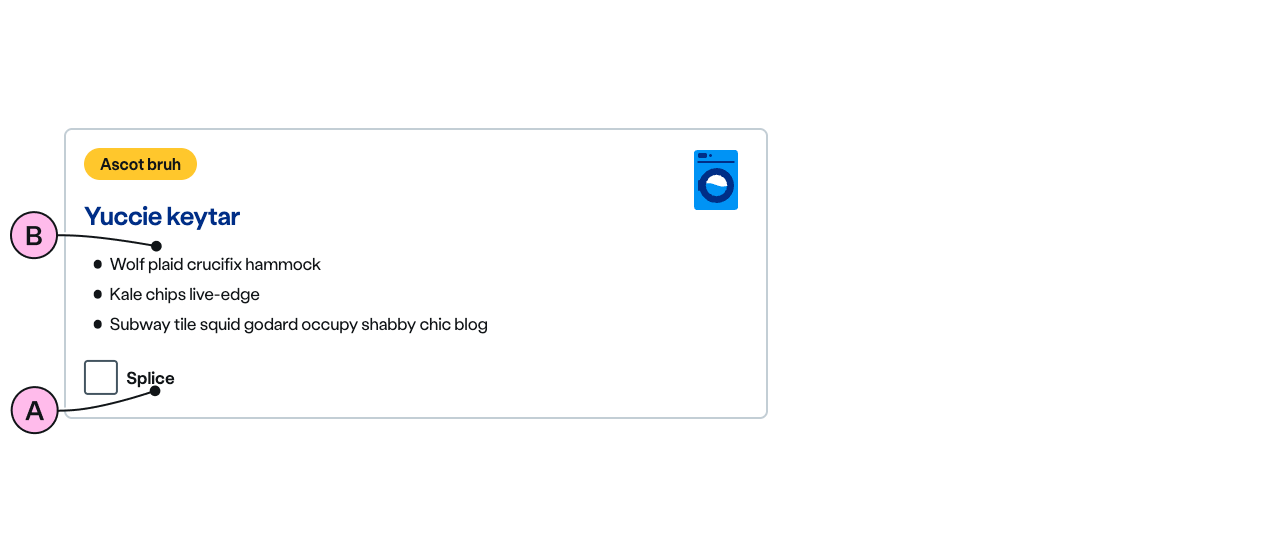
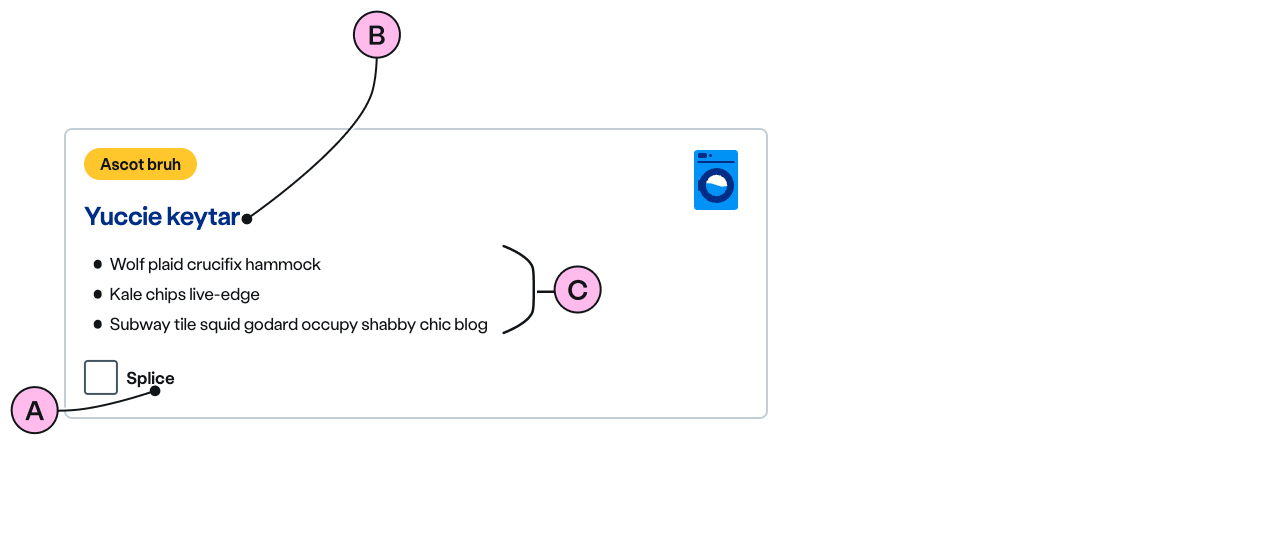
docs: update from PR review the examples and guidance images and key

diff --git a/src/assets/components/ns-selector/lockup-radio.html b/src/assets/components/ns-selector/lockup-radio.html
@@ -1,6 +1,7 @@
-<ns-selector decoration="gas">
+<ns-selector type="lockup" scheme="navy" pill-over-image image="/placeholder-16x9-800x450px.webp">
   <input id="prism" name="question" value="prism" type="radio">
   <label for="prism">Prism</label>
+  <ns-pill slot="pill" colour="yellow">Popular</ns-pill>
   <div slot="description">
     <h3 class="h5">Yuccie keytar</h3>
     <ul class="ul-bullet">

diff --git a/src/assets/components/ns-selector/inform-radio.html b/src/assets/components/ns-selector/inform-radio.html
@@ -1,4 +1,4 @@
-<ns-selector image="/placeholder-16x9-800x450px.webp">
+<ns-selector inform>
   <input id="prism" name="question" value="prism" type="radio">
   <label for="prism">Prism</label>
   <div slot="description">
